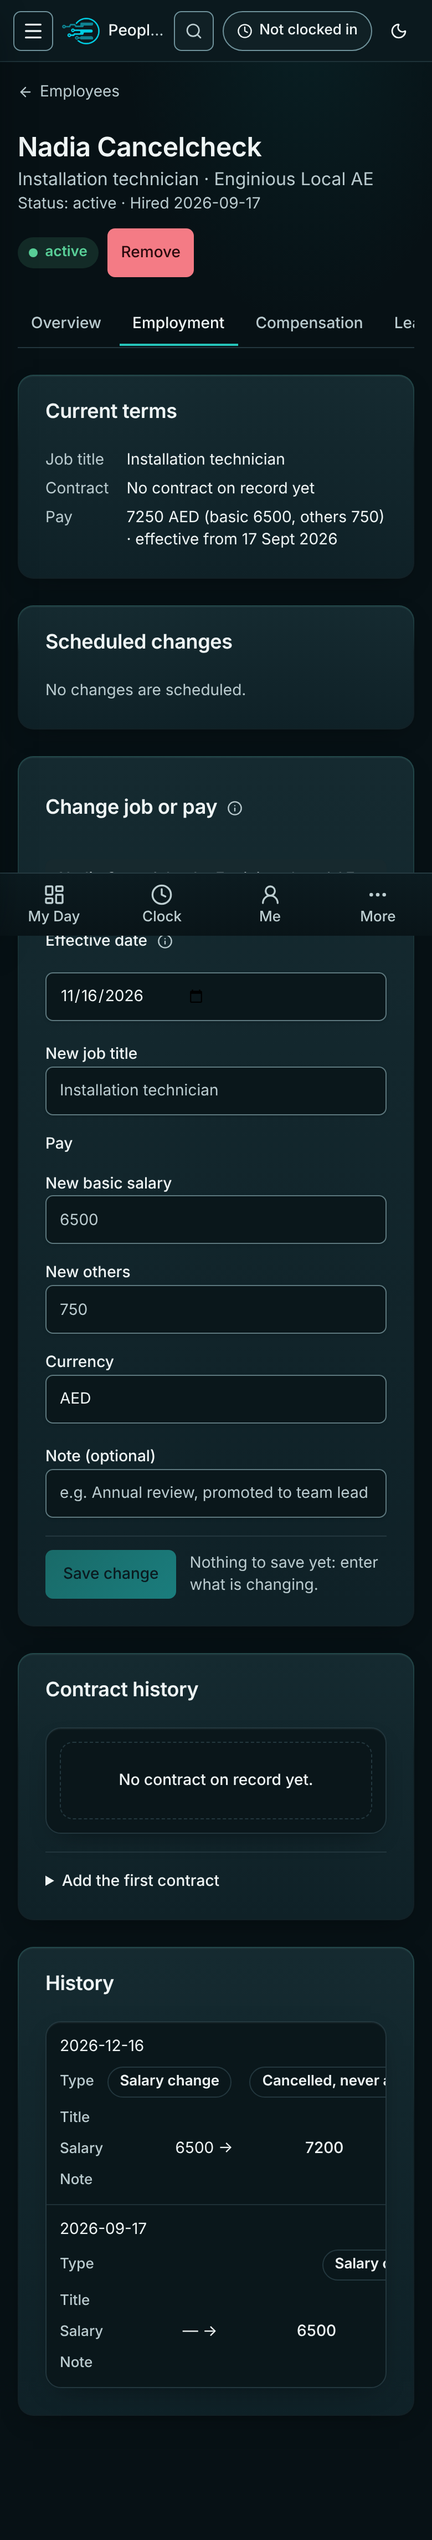
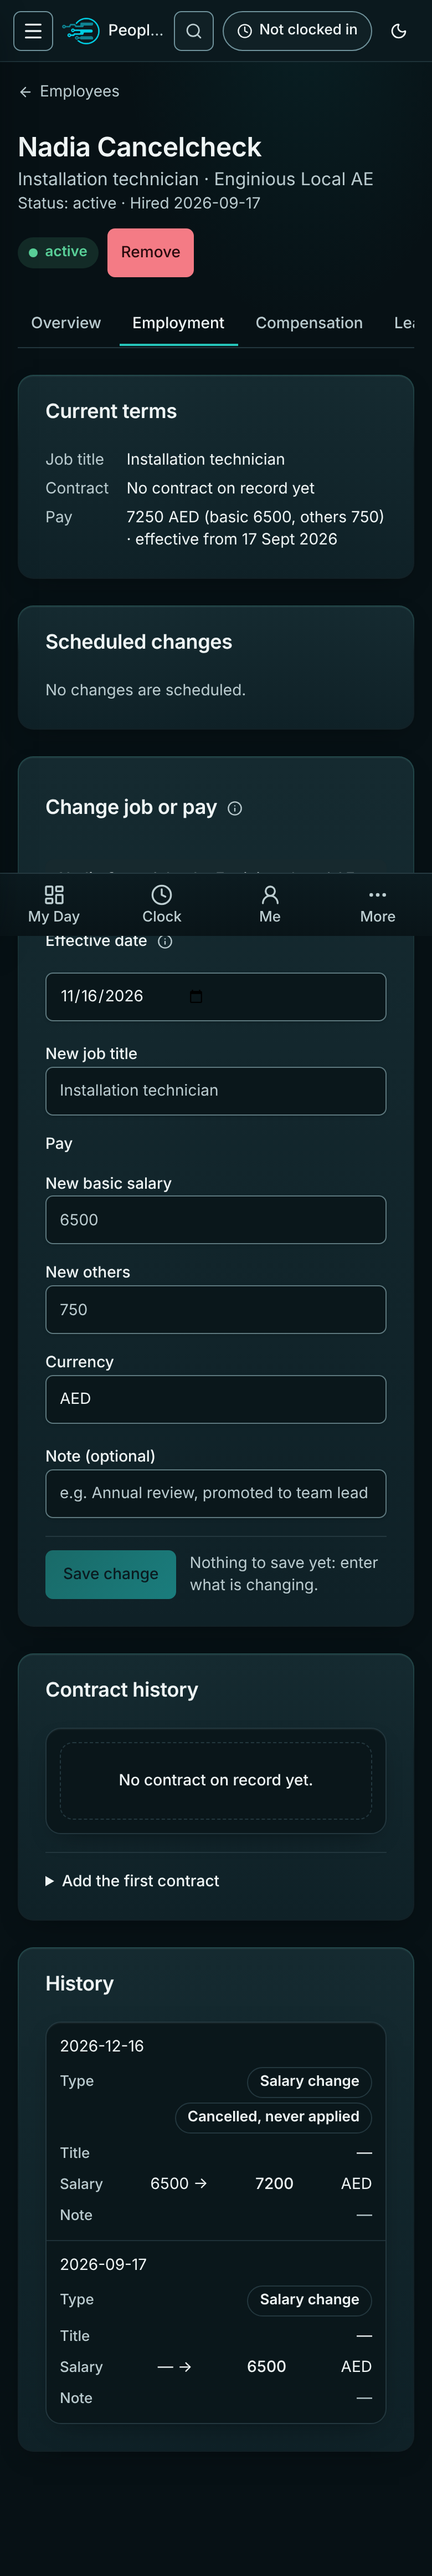
People & HR Phase 1: wrap the History type badges on narrow screens
Layout only. At 390 px the two badges in the stacked History row were separate non-wrapping items that widened the row past its card, so the table scrolled sideways inside it and the words were cut. They now sit in one wrapping group in the existing stacked cell. The walkthrough checks each table wrapper and each badge's box, failed on the old layout and passes on the new one.

Claude-Session: https://claude.ai/code/session_01SMT2mSUqkwEcqrvr66ux3w

diff --git a/apps/web/src/app/(app)/employees/[id]/career-history-section.tsx b/apps/web/src/app/(app)/employees/[id]/career-history-section.tsx
@@ -57,7 +57,13 @@ export function ChangeHistory({ events }: { events: CareerEventRow[] }) {
         {events.map((e) => (
           <TableRow key={e.id}>
             <TableCell>{e.effective_date}</TableCell>
-            <TableCell><Badge variant={EVENT_VARIANT[e.event_type] ?? "outline"}>{EVENT_LABEL[e.event_type] ?? e.event_type}</Badge>{e.dismissed_at ? <Badge variant="outline" className="ml-1">Cancelled, never applied</Badge> : null}</TableCell>
+            <TableCell>
+              {/* One group, so on a phone the badges wrap onto their own line instead of widening the stacked row past its card. */}
+              <span className="flex min-w-0 flex-wrap items-center justify-end gap-1 md:justify-start">
+                <Badge variant={EVENT_VARIANT[e.event_type] ?? "outline"}>{EVENT_LABEL[e.event_type] ?? e.event_type}</Badge>
+                {e.dismissed_at ? <Badge variant="outline">Cancelled, never applied</Badge> : null}
+              </span>
+            </TableCell>
             <TableCell className="text-sm">{e.new_job_title ? <>{e.previous_job_title ?? "—"} → <span className="font-medium">{e.new_job_title}</span></> : "—"}</TableCell>
             <TableCell className="text-sm">{e.new_base_salary != null ? <>{e.previous_base_salary ?? "—"} → <span className="font-medium">{e.new_base_salary}</span> {e.currency}</> : "—"}</TableCell>
             <TableCell className="text-muted-foreground">{e.note ?? "—"}</TableCell>

diff --git a/docs/enginious-os/modules/people-hr.md b/docs/enginious-os/modules/people-hr.md
@@ -214,7 +214,7 @@ Opening a profile, a tab, a document link or an action address **directly** reac
 * **Database:** `packages/rls-tests/test/people-hr-phase1.rls.test.ts`, 20 tests on a database built from every migration (job and pay now; a scheduled change does not move pay; the applier is service-role only; each event applied on its own employee's calendar (21:00 UTC is already tomorrow in Dubai, still today in Warsaw); the cutoff helper per country and the caller cannot send a date; allowances not edited are kept; a stale scheduled pay change is held, never applied over newer pay, and HR can cancel it; a failed event is reported and the same run's other events are kept; **two sessions** (a manual pay change still open, the daily job started meanwhile: the job waits for the employee's lock, then holds its stale change and leaves one current pay version, the manual one); the migration re-run replaces an older draft; Finance pay-only; other company, manager, CEO, employee and unknown role refused identically; refusal rules; first salary; atomic rollback; previous-build rows count as applied; a leaver's event is left unapplied; one opening balance per employee; the packs behave). 19 tests passed after the correction (13 before it); the full RLS suite (95 files, 2198 tests) passed at the earlier head `e42a067` and is left to required CI for the corrected head.
 * **Web:** unit and component tests (`web/lib/hr/*.test.ts`, the add-document, change-employment, profile-pieces, employment-timeline and new-employee tests, the failed-reads test updated for the Documents tab; the action, cron-route, timeline, flag and profile-loader tests for the date, held-change, cancel and failure behaviour). the focused files were re-run after the correction; the full web suite (382 files, 4251 tests) passed at the earlier head `e42a067` and is left to required CI for the corrected head.
 * **Browser:** `apps/web/os-shell-checks/people-hr-phase1-flow.mjs` (seed `seed/people-hr.sh`), at 390 px, on the isolated stack with fictional people: 20 of 20 steps passed (run before the migration was renamed and the cron route added to the proxy list; the rename changes no behaviour). It covers the directory and its memory, company-first onboarding for UAE, Saudi Arabia and Poland defaults and a company with no default currency, one create from a double click, leaving midway and resuming the same record, contract, pay, document and opening-balance steps without retyping, a job and pay change applied now and one scheduled, the Change salary shortcut, renewal, People & Access with the grants hash unchanged, and the permission boundaries for an HR Admin of one company only, Finance, a line manager and the employee.
-* **Walkthrough (local, isolated stack, 390 px, head `1fcc03d`; `os-shell-checks/people-hr-phase1-cancel-walkthrough.mjs`, 10 of 10 steps):** an employee is created with identity and job only; the directory flags the unfinished setup and the flag opens the same record (one employee, one id) with employee and company already shown in the pay step; a future pay change is scheduled (listed as not in force yet; the current pay version and figures are unchanged); a Finance user sees it but is offered no cancel control and the database refuses their direct cancel; the HR Admin cancels it in two taps; current pay is still unchanged; the cancelled change leaves Scheduled changes and appears in History as *Cancelled, never applied*; the daily job on its date applies and holds nothing for it. One layout finding is open: in the stacked History row at 390 px the type badges are clipped at the card edge (*Cancelled, never a…*, and the older row's *Salary c…*); the page does not scroll sideways, but the words are cut.
+* **Walkthrough (local, isolated stack, 390 px, head `1fcc03d`; `os-shell-checks/people-hr-phase1-cancel-walkthrough.mjs`, 10 of 10 steps):** an employee is created with identity and job only; the directory flags the unfinished setup and the flag opens the same record (one employee, one id) with employee and company already shown in the pay step; a future pay change is scheduled (listed as not in force yet; the current pay version and figures are unchanged); a Finance user sees it but is offered no cancel control and the database refuses their direct cancel; the HR Admin cancels it in two taps; current pay is still unchanged; the cancelled change leaves Scheduled changes and appears in History as *Cancelled, never applied*; the daily job on its date applies and holds nothing for it. **History badges (found by this walkthrough, fixed):** in the stacked History row at 390 px the two type badges were separate non-wrapping items in a flex row, which widened the row past its card; the table's own `os-table-wrap` scrolled sideways by 67 px and the words read *Cancelled, never a…* and *Salary c…* (the page itself did not scroll, so a page-level width check missed it). The badges now sit in one wrapping group in the existing stacked cell (`career-history-section.tsx`, layout only): *Salary change* and *Cancelled, never applied* are fully visible at 390 px, wrapping onto their own line, with no sideways scroll inside any table (the walkthrough now checks each table wrapper and each badge's box, and failed on the old layout first); at 1280 px both badges stay on one line with no overflow.
 * **Not verified by Claude:** anything hosted (the migration, the daily route, Preview, Production: the owner reports the migration, its SQL verification and a read-only phone Preview check as done); a real phone; the e-mail or invitation delivery; that Vercel's scheduler calls the daily route with the cron secret (the proxy lets the call through and the route refuses it without the secret; the verify pack's row 8 is how to watch the waiting count); the Attendance and Assets tabs (not changed); the paths named in the coverage index as not re-run.
 
 ## 13. JARVIS and People & HR

diff --git a/docs/enginious-os/06-change-log.md b/docs/enginious-os/06-change-log.md
@@ -26,7 +26,7 @@ Maintenance rule (from `README.md`): any change to behaviour, access, navigation
 
 **Docs.** New `modules/people-hr.md`, `people-hr-workflows.md`, `people-hr-coverage-index.md` (37 screens and parts) and `people-hr-action-catalogue.md` (14 rows); 01, 02, 03, 04, 05, README and the install order updated; staff guidance gains five topics (published topics: 105 to 110); JARVIS gains no capability.
 
-**Verified (local, isolated stack; nothing hosted).** RLS: 20 tests passed after the corrections (13 before them); the full RLS suite (95 files, 2198 tests) passed at the earlier head `e42a067` and is left to required CI for the corrected head; web: the focused files were re-run after the correction; the full web suite (382 files, 4251 tests) passed at the earlier head `e42a067` and is left to required CI for the corrected head; `people-hr-phase1-flow.mjs`: 20 of 20 steps passed at the earlier head `e42a067`; it was NOT re-run after the date, allowance, stale-pay and cancel correction (its psql lines were updated to the new function forms and are unrun), at 390 px (UAE, Saudi Arabia and Poland fixtures; leave and resume the same record; permission boundaries for an HR Admin of one company, Finance, a line manager and the employee; the grants of Sales, Projects, Operations, Inventory, Finance and HR unchanged). **Owner-confirmed, not seen by Claude (2026-11-16):** the hosted migration is applied, its SQL verification passed, and a read-only phone check of the Preview was done; the revision of the migration file applied was not stated. **Walkthrough (local, 390 px, head `1fcc03d`, `people-hr-phase1-cancel-walkthrough.mjs`):** 10 of 10: onboarding resumes on the same record; a future pay change is scheduled and cancelled with current pay unchanged and the cancelled change shown in History; open layout finding: the History type badges are clipped at the card edge at 390 px. **Not verified:** a real phone by Claude; the scheduler reaching `/api/cron/employment-changes` (listed as public in `proxy.ts` like `crm-reminders`, and answers 401 without the cron secret; hosted cron history and secret unchecked); invitation delivery.
+**Verified (local, isolated stack; nothing hosted).** RLS: 20 tests passed after the corrections (13 before them); the full RLS suite (95 files, 2198 tests) passed at the earlier head `e42a067` and is left to required CI for the corrected head; web: the focused files were re-run after the correction; the full web suite (382 files, 4251 tests) passed at the earlier head `e42a067` and is left to required CI for the corrected head; `people-hr-phase1-flow.mjs`: 20 of 20 steps passed at the earlier head `e42a067`; it was NOT re-run after the date, allowance, stale-pay and cancel correction (its psql lines were updated to the new function forms and are unrun), at 390 px (UAE, Saudi Arabia and Poland fixtures; leave and resume the same record; permission boundaries for an HR Admin of one company, Finance, a line manager and the employee; the grants of Sales, Projects, Operations, Inventory, Finance and HR unchanged). **Owner-confirmed, not seen by Claude (2026-11-16):** the hosted migration is applied, its SQL verification passed, and a read-only phone check of the Preview was done; the revision of the migration file applied was not stated. **Walkthrough (local, 390 px, head `1fcc03d`, `people-hr-phase1-cancel-walkthrough.mjs`):** 10 of 10: onboarding resumes on the same record; a future pay change is scheduled and cancelled with current pay unchanged and the cancelled change shown in History; the History type badges were clipped at 390 px (the table scrolled sideways inside its card by 67 px); fixed in `career-history-section.tsx` (layout only: the badges wrap in one group in the existing stacked cell) and the walkthrough now checks each table wrapper and each badge's box (10 of 10 after the fix; it failed on the old layout first). **Not verified:** a real phone by Claude; the scheduler reaching `/api/cron/employment-changes` (listed as public in `proxy.ts` like `crm-reminders`, and answers 401 without the cron secret; hosted cron history and secret unchecked); invitation delivery.
 
 **Correction to the employment and pay change path (same branch, same migration file; the migration had not been applied anywhere).** (1) The effective-date cutoff is decided in the database from the employee's own country calendar (`hr_business_today`), not from a date the app sends; `record_employment_change` and `apply_due_employment_changes` no longer take one. (2) Allowances the person did not edit (housing, transport and the rest) are kept; only Others is edited. (3) A scheduled pay change is applied only while the pay version it was worked out from is still current; otherwise it is held for HR review with a reason, nothing is written, and an HR Admin can cancel it (`dismiss_employment_change`). (4) A failed application answers 500 from the cron route with each failed event while the run's other applications are kept; held changes are reported but are not failures. The verify pack grew to nine rows and the migration is re-runnable over the earlier draft. Staff guidance for changing job or pay was updated and the JARVIS guidance regenerated; JARVIS code and settings were not touched.
 

diff --git a/docs/people-hr-phase1-scope.md b/docs/people-hr-phase1-scope.md
@@ -38,5 +38,5 @@ HR work queue redesign (Phase 2); Letters, Payroll, Assets and Admin redesigns (
 * **Local, isolated stack only; nothing hosted.** At the first head (`e42a067`): full RLS suite 95 files, 2198 tests passed; web suite 382 files, 4251 tests passed. After the date, allowance, stale-pay and cancel correction: `people-hr-phase1.rls.test.ts` 20 tests passed, the focused web files passed, `tsc`, `eslint` and the JARVIS knowledge check clean; the full suites are left to required CI.
 * **One signed-in walkthrough at 390 px** (`apps/web/os-shell-checks/people-hr-phase1-flow.mjs`, 20 of 20 steps at the earlier head `e42a067`; not re-run after the correction): UAE, Saudi Arabia and Poland company defaults, a company with a missing default currency, add an employee, leave midway, resume the same record, finish contract, pay, documents, opening balances and the account link without retyping; an HR Admin of one company, Finance, a line manager and the employee each see only what they may; the Sales, Projects, Operations, Inventory, Finance and HR grants are unchanged afterwards. Screenshots: `docs/people-hr-screenshots/`.
 * **Owner-confirmed, not seen by Claude:** the hosted migration is applied, the SQL verification passed, and a read-only phone check of the Preview was done (revision of the file applied not stated).
-* **Walkthrough (local, 390 px, head `1fcc03d`, `apps/web/os-shell-checks/people-hr-phase1-cancel-walkthrough.mjs`, 10 of 10):** onboarding resumes on the same record; a future pay change is scheduled and cancelled; current pay unchanged; the cancelled change is in History. Open finding: History type badges are clipped at the card edge at 390 px.
+* **Walkthrough (local, 390 px, head `1fcc03d`, `apps/web/os-shell-checks/people-hr-phase1-cancel-walkthrough.mjs`, 10 of 10):** onboarding resumes on the same record; a future pay change is scheduled and cancelled; current pay unchanged; the cancelled change is in History. Finding fixed: History type badges were clipped at 390 px (the table scrolled sideways inside its card); they now wrap in one group, and the walkthrough checks each table wrapper and badge box (10 of 10).
 * **Not verified by Claude:** Preview or Production, a real phone, invitation delivery, Vercel's scheduler calling `/api/cron/employment-changes` with the cron secret, and the hosted storage paths for new document submissions.
